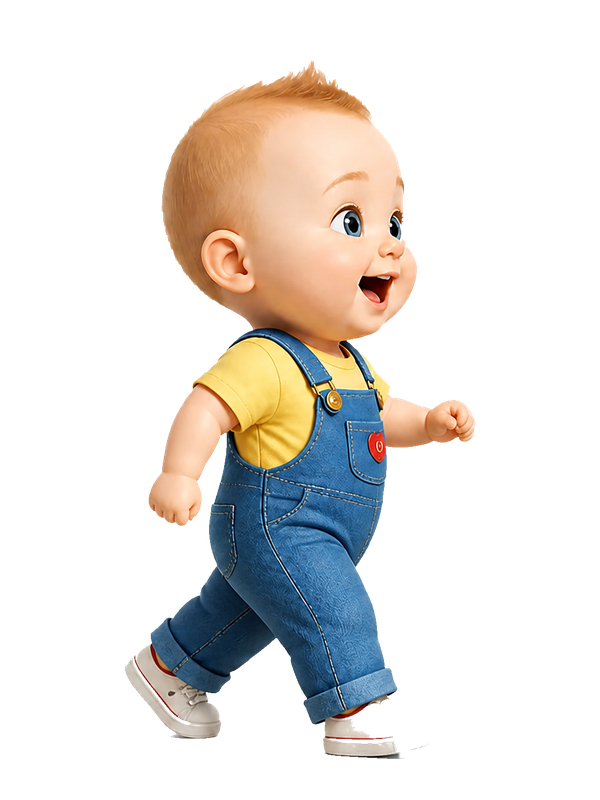
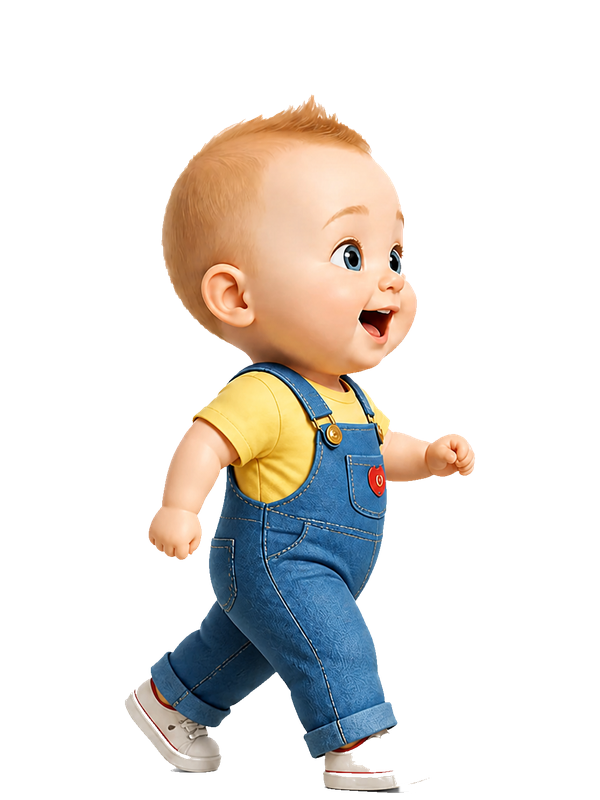
fix: refine Nick game movement and hazards

Changed region(s): [[0.21, 0.0625, 0.81, 1.0]]

diff --git a/public/nick-7meses/app.js b/public/nick-7meses/app.js
@@ -779,7 +779,7 @@ const walkFrames = Array.from({ length: 6 }, () => new Image());
 const flightFrames = Array.from({ length: 24 }, () => new Image());
 const jumpFrames = Array.from({ length: 24 }, () => new Image());
 const WALK_ANIMATION_SOURCE = 'original-6-frames';
-const GAME_FRAME_VERSION = 'walk6-source-v1';
+const GAME_FRAME_VERSION = 'walk6-motion-v2';
 const versionedGameFrame = (path) => `${path}?v=${GAME_FRAME_VERSION}`;
 nickSprites.crawl.src = '/nick-7meses/assets/game/nick-crawl.png';
 nickSprites.walk.src = '/nick-7meses/assets/game/nick-walk.png';
@@ -862,6 +862,7 @@ const basePowerups = [
 ];
 let obstacles = [];
 let flyingBirds = [];
+let birdCollisionsEnabled = true;
 let initialStars = [];
 let initialPowerups = [];
 let currentLevelSeed = 0;
@@ -1666,7 +1667,7 @@ function drawNick(time) {
   } else {
     const speedProgress = Math.max(0, Math.min(1, (stage.speed - SPEED_PROFILE.crawlStart) / (SPEED_PROFILE.walkEnd - SPEED_PROFILE.crawlStart)));
     const sourceRate = (mode === 'crawl' ? .78 : .88) + speedProgress * .34;
-    const animationRate = sourceRate * (frames.length / 24);
+    const animationRate = sourceRate * (mode === 'walk' ? .5 : 1);
     poseProgress = sampledTime / (1000 / CHARACTER_ANIMATION_FPS) * animationRate;
   }
   const baseIndex = Math.floor(poseProgress);
@@ -2043,7 +2044,6 @@ function updateGame(dt) {
     player.powerRemaining = Math.max(0, player.powerRemaining - dt);
     if (player.powerRemaining === 0) {
       player.power = null;
-      player.vy = Math.max(player.vy, 0);
     }
   }
   if (player.speedBoostRemaining > 0) {
@@ -2055,8 +2055,9 @@ function updateGame(dt) {
   const previousY = player.y;
   const wasGrounded = player.grounded;
   if (player.power === 'flight') {
-    player.y += (player.flightTargetY - player.y) * Math.min(1, dt * 6.5);
-    player.vy = 0;
+    const nextY = player.y + (player.flightTargetY - player.y) * Math.min(1, dt * 6.5);
+    player.vy = (nextY - player.y) / Math.max(dt, .001);
+    player.y = nextY;
     player.grounded = false;
   } else {
     if (keys.jumpHeld && player.vy < 0 && player.jumpHold < MAX_JUMP_HOLD) {
@@ -2107,8 +2108,7 @@ function updateGame(dt) {
     }
   });
   if (player.speedBoostExitGrace && !overlapsObstacle) player.speedBoostExitGrace = false;
-  flyingBirds.forEach((bird) => {
-    if (bird.mode !== 'hover') return;
+  if (birdCollisionsEnabled) flyingBirds.forEach((bird) => {
     if (bird.mode === 'cross' && (!bird.flightStarted || bird.flightFinished)) return;
     const position = getBirdPosition(bird, currentGameFrameTime);
     const birdHitbox = getBirdHitbox(bird, position);
@@ -2278,7 +2278,7 @@ window.__nickGameDebug = {
     distinctFramesByAnimation: { crawl: 24, walk: 6, flight: 24, jump: 24 },
     frameGeneration: { crawl: 'motion-compensated-no-crossfade', walk: WALK_ANIMATION_SOURCE, flight: 'motion-compensated-no-crossfade', jump: 'motion-compensated-no-crossfade' },
     walkSourceFrames: true,
-    walkPlaybackScale: walkFrames.length / 24,
+    walkPlaybackScale: .5,
     sharedWalkJumpCanvas: true,
     sharedWalkJumpRenderHeight: 150,
     spritePivot: 'bottom-center',
@@ -2295,9 +2295,9 @@ window.__nickGameDebug = {
     pickupReactions: ['doubleJump','flight','life','speedBoost'],
     cloudDrift: true,
     birdObstacleCount: flyingBirds.length,
-    hazardousBirdCount: flyingBirds.filter((bird) => bird.mode === 'hover').length,
-    birdCollisionMode: 'hover-only',
-    crossBirdsDecorative: true,
+    hazardousBirdCount: flyingBirds.length,
+    birdCollisionMode: 'all-active',
+    crossBirdsDecorative: false,
     birdDirection: 'right-to-left',
     birdModes: Object.fromEntries(['cross','hover'].map((mode) => [mode, flyingBirds.filter((bird) => bird.mode === mode).length])),
     birdHeightRange: { min: Math.min(...flyingBirds.map((bird) => bird.baseY)), max: Math.max(...flyingBirds.map((bird) => bird.baseY)) },
@@ -2392,6 +2392,7 @@ window.__nickGameDebug = {
   setMusicEnabled,
   advanceMusicTrack: advanceMusicPlaylist,
   setPowerTutorialEnabled,
+  setBirdCollisionsEnabled: (enabled) => { birdCollisionsEnabled = Boolean(enabled); },
   getPreferences: () => ({
     musicEnabled,
     powerTutorialEnabled,
